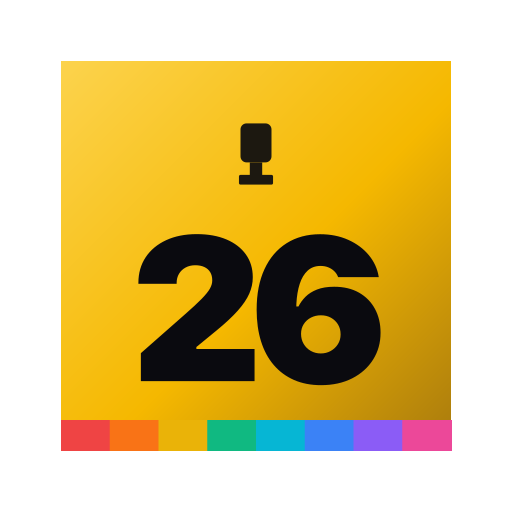
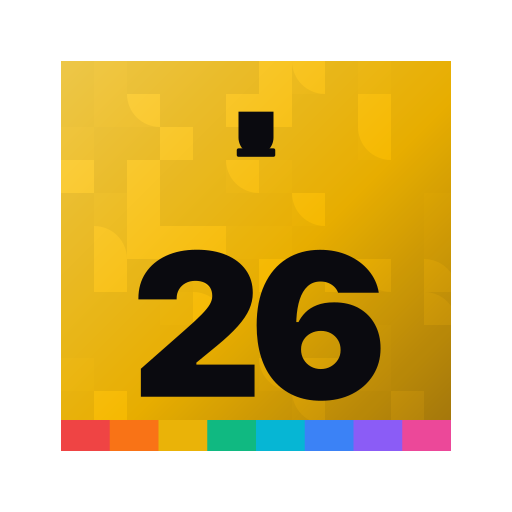
URL nova meualbum-copa2026.web.app + bandeiras + identidade refinada
- Firebase: site customizado meualbum-copa2026 criado e setado como
  destino no firebase.json (substitui album-copa-2026-mr.web.app
  que era o subdomínio default do project ID).
- Backend: ALLOWED_ORIGIN agora aceita lista CSV; setado pra aceitar
  ambos os domínios durante a transição. Cloud Run rev 00006-nwd.

Identidade visual:
- Lista oficial das 48 seleções verificada na fifa.com/pt (peguei
  via Claude-in-Chrome). Ajustes nos nomes em PT: "Holanda" (era
  Países Baixos), "Curaçau" (era Curaçao), "RD do Congo", "EUA".
- Cada Team agora carrega `flag` (emoji unicode regional indicator,
  com tags pra Inglaterra e Escócia).
- Header da Review mostra cabeçalho com bandeira + nome + grupo +
  página quando seleção é detectada.
- Filtro de seleção em Collection mostra "🇧🇷 Brasil · Grupo C".

Ícone PWA refinado:
- Padrão sutil de quadrados + quartos de círculo no fundo dourado,
  evocando o sistema gráfico oficial onde 48 dessas unidades formam
  o "26". Troféu silhueta mais detalhado (taça + base).

Changed region(s): [[0.25, 0.4375, 0.75, 0.7812], [0.4375, 0.2188, 0.5625, 0.375]]

diff --git a/frontend/src/data/album.ts b/frontend/src/data/album.ts
@@ -51,12 +51,14 @@ export interface Sticker {
 export interface Team {
   /** Código de 3 letras usado no álbum Panini 2026. */
   code: string
-  /** Nome em português. */
+  /** Nome em português (alinhado à fonte oficial fifa.com/pt). */
   name: string
   /** Grupo da Copa (A..L). */
   group: string
   /** Página onde a seleção começa no álbum impresso (cada seleção ocupa 2 páginas). */
   startPage: number
+  /** Emoji da bandeira (regional indicator / subdivision flag). */
+  flag: string
 }
 
 /**
@@ -78,66 +80,66 @@ export const MUSEUM_CODE = 'FM'
  */
 export const TEAMS: Team[] = [
   // Grupo A
-  { code: 'MEX', name: 'México', group: 'A', startPage: 8 },
-  { code: 'RSA', name: 'África do Sul', group: 'A', startPage: 10 },
-  { code: 'KOR', name: 'Coreia do Sul', group: 'A', startPage: 12 },
-  { code: 'CZE', name: 'Tchéquia', group: 'A', startPage: 14 },
+  { code: 'MEX', name: 'México',           group: 'A', startPage: 8,   flag: '🇲🇽' },
+  { code: 'RSA', name: 'África do Sul',    group: 'A', startPage: 10,  flag: '🇿🇦' },
+  { code: 'KOR', name: 'Coreia do Sul',    group: 'A', startPage: 12,  flag: '🇰🇷' },
+  { code: 'CZE', name: 'Tchéquia',         group: 'A', startPage: 14,  flag: '🇨🇿' },
   // Grupo B
-  { code: 'CAN', name: 'Canadá', group: 'B', startPage: 16 },
-  { code: 'BIH', name: 'Bósnia e Herzegovina', group: 'B', startPage: 18 },
-  { code: 'QAT', name: 'Catar', group: 'B', startPage: 20 },
-  { code: 'SUI', name: 'Suíça', group: 'B', startPage: 22 },
+  { code: 'CAN', name: 'Canadá',           group: 'B', startPage: 16,  flag: '🇨🇦' },
+  { code: 'BIH', name: 'Bósnia e Herzegovina', group: 'B', startPage: 18, flag: '🇧🇦' },
+  { code: 'QAT', name: 'Catar',            group: 'B', startPage: 20,  flag: '🇶🇦' },
+  { code: 'SUI', name: 'Suíça',            group: 'B', startPage: 22,  flag: '🇨🇭' },
   // Grupo C
-  { code: 'BRA', name: 'Brasil', group: 'C', startPage: 24 },
-  { code: 'MAR', name: 'Marrocos', group: 'C', startPage: 26 },
-  { code: 'HAI', name: 'Haiti', group: 'C', startPage: 28 },
-  { code: 'SCO', name: 'Escócia', group: 'C', startPage: 30 },
+  { code: 'BRA', name: 'Brasil',           group: 'C', startPage: 24,  flag: '🇧🇷' },
+  { code: 'MAR', name: 'Marrocos',         group: 'C', startPage: 26,  flag: '🇲🇦' },
+  { code: 'HAI', name: 'Haiti',            group: 'C', startPage: 28,  flag: '🇭🇹' },
+  { code: 'SCO', name: 'Escócia',          group: 'C', startPage: 30,  flag: '🏴' },
   // Grupo D
-  { code: 'USA', name: 'Estados Unidos', group: 'D', startPage: 32 },
-  { code: 'PAR', name: 'Paraguai', group: 'D', startPage: 34 },
-  { code: 'AUS', name: 'Austrália', group: 'D', startPage: 36 },
-  { code: 'TUR', name: 'Turquia', group: 'D', startPage: 38 },
+  { code: 'USA', name: 'EUA',              group: 'D', startPage: 32,  flag: '🇺🇸' },
+  { code: 'PAR', name: 'Paraguai',         group: 'D', startPage: 34,  flag: '🇵🇾' },
+  { code: 'AUS', name: 'Austrália',        group: 'D', startPage: 36,  flag: '🇦🇺' },
+  { code: 'TUR', name: 'Turquia',          group: 'D', startPage: 38,  flag: '🇹🇷' },
   // Grupo E
-  { code: 'GER', name: 'Alemanha', group: 'E', startPage: 40 },
-  { code: 'CUW', name: 'Curaçao', group: 'E', startPage: 42 },
-  { code: 'CIV', name: 'Costa do Marfim', group: 'E', startPage: 44 },
-  { code: 'ECU', name: 'Equador', group: 'E', startPage: 46 },
+  { code: 'GER', name: 'Alemanha',         group: 'E', startPage: 40,  flag: '🇩🇪' },
+  { code: 'CUW', name: 'Curaçau',          group: 'E', startPage: 42,  flag: '🇨🇼' },
+  { code: 'CIV', name: 'Costa do Marfim',  group: 'E', startPage: 44,  flag: '🇨🇮' },
+  { code: 'ECU', name: 'Equador',          group: 'E', startPage: 46,  flag: '🇪🇨' },
   // Grupo F
-  { code: 'NED', name: 'Países Baixos', group: 'F', startPage: 48 },
-  { code: 'JPN', name: 'Japão', group: 'F', startPage: 50 },
-  { code: 'SWE', name: 'Suécia', group: 'F', startPage: 52 },
-  { code: 'TUN', name: 'Tunísia', group: 'F', startPage: 54 },
+  { code: 'NED', name: 'Holanda',          group: 'F', startPage: 48,  flag: '🇳🇱' },
+  { code: 'JPN', name: 'Japão',            group: 'F', startPage: 50,  flag: '🇯🇵' },
+  { code: 'SWE', name: 'Suécia',           group: 'F', startPage: 52,  flag: '🇸🇪' },
+  { code: 'TUN', name: 'Tunísia',          group: 'F', startPage: 54,  flag: '🇹🇳' },
   // [páginas 56-57 são seção especial entre F e G]
   // Grupo G
-  { code: 'BEL', name: 'Bélgica', group: 'G', startPage: 58 },
-  { code: 'EGY', name: 'Egito', group: 'G', startPage: 60 },
-  { code: 'IRN', name: 'Irã', group: 'G', startPage: 62 },
-  { code: 'NZL', name: 'Nova Zelândia', group: 'G', startPage: 64 },
+  { code: 'BEL', name: 'Bélgica',          group: 'G', startPage: 58,  flag: '🇧🇪' },
+  { code: 'EGY', name: 'Egito',            group: 'G', startPage: 60,  flag: '🇪🇬' },
+  { code: 'IRN', name: 'Irã',              group: 'G', startPage: 62,  flag: '🇮🇷' },
+  { code: 'NZL', name: 'Nova Zelândia',    group: 'G', startPage: 64,  flag: '🇳🇿' },
   // Grupo H
-  { code: 'ESP', name: 'Espanha', group: 'H', startPage: 66 },
-  { code: 'CPV', name: 'Cabo Verde', group: 'H', startPage: 68 },
-  { code: 'KSA', name: 'Arábia Saudita', group: 'H', startPage: 70 },
-  { code: 'URU', name: 'Uruguai', group: 'H', startPage: 72 },
+  { code: 'ESP', name: 'Espanha',          group: 'H', startPage: 66,  flag: '🇪🇸' },
+  { code: 'CPV', name: 'Cabo Verde',       group: 'H', startPage: 68,  flag: '🇨🇻' },
+  { code: 'KSA', name: 'Arábia Saudita',   group: 'H', startPage: 70,  flag: '🇸🇦' },
+  { code: 'URU', name: 'Uruguai',          group: 'H', startPage: 72,  flag: '🇺🇾' },
   // Grupo I
-  { code: 'FRA', name: 'França', group: 'I', startPage: 74 },
-  { code: 'SEN', name: 'Senegal', group: 'I', startPage: 76 },
-  { code: 'IRQ', name: 'Iraque', group: 'I', startPage: 78 },
-  { code: 'NOR', name: 'Noruega', group: 'I', startPage: 80 },
+  { code: 'FRA', name: 'França',           group: 'I', startPage: 74,  flag: '🇫🇷' },
+  { code: 'SEN', name: 'Senegal',          group: 'I', startPage: 76,  flag: '🇸🇳' },
+  { code: 'IRQ', name: 'Iraque',           group: 'I', startPage: 78,  flag: '🇮🇶' },
+  { code: 'NOR', name: 'Noruega',          group: 'I', startPage: 80,  flag: '🇳🇴' },
   // Grupo J
-  { code: 'ARG', name: 'Argentina', group: 'J', startPage: 82 },
-  { code: 'ALG', name: 'Argélia', group: 'J', startPage: 84 },
-  { code: 'AUT', name: 'Áustria', group: 'J', startPage: 86 },
-  { code: 'JOR', name: 'Jordânia', group: 'J', startPage: 88 },
+  { code: 'ARG', name: 'Argentina',        group: 'J', startPage: 82,  flag: '🇦🇷' },
+  { code: 'ALG', name: 'Argélia',          group: 'J', startPage: 84,  flag: '🇩🇿' },
+  { code: 'AUT', name: 'Áustria',          group: 'J', startPage: 86,  flag: '🇦🇹' },
+  { code: 'JOR', name: 'Jordânia',         group: 'J', startPage: 88,  flag: '🇯🇴' },
   // Grupo K
-  { code: 'POR', name: 'Portugal', group: 'K', startPage: 90 },
-  { code: 'COD', name: 'Congo (RD)', group: 'K', startPage: 92 },
-  { code: 'UZB', name: 'Uzbequistão', group: 'K', startPage: 94 },
-  { code: 'COL', name: 'Colômbia', group: 'K', startPage: 96 },
+  { code: 'POR', name: 'Portugal',         group: 'K', startPage: 90,  flag: '🇵🇹' },
+  { code: 'COD', name: 'RD do Congo',      group: 'K', startPage: 92,  flag: '🇨🇩' },
+  { code: 'UZB', name: 'Uzbequistão',      group: 'K', startPage: 94,  flag: '🇺🇿' },
+  { code: 'COL', name: 'Colômbia',         group: 'K', startPage: 96,  flag: '🇨🇴' },
   // Grupo L
-  { code: 'ENG', name: 'Inglaterra', group: 'L', startPage: 98 },
-  { code: 'CRO', name: 'Croácia', group: 'L', startPage: 100 },
-  { code: 'GHA', name: 'Gana', group: 'L', startPage: 102 },
-  { code: 'PAN', name: 'Panamá', group: 'L', startPage: 104 },
+  { code: 'ENG', name: 'Inglaterra',       group: 'L', startPage: 98,  flag: '🏴' },
+  { code: 'CRO', name: 'Croácia',          group: 'L', startPage: 100, flag: '🇭🇷' },
+  { code: 'GHA', name: 'Gana',             group: 'L', startPage: 102, flag: '🇬🇭' },
+  { code: 'PAN', name: 'Panamá',           group: 'L', startPage: 104, flag: '🇵🇦' },
 ]
 
 if (TEAMS.length !== TEAM_COUNT) {

diff --git a/frontend/src/pages/Review.tsx b/frontend/src/pages/Review.tsx
@@ -282,13 +282,30 @@ function PageResultPanel({
     return <EmptyResult result={result} geminiError={geminiError} />
   }
 
-  const teamName = result.team ? TEAMS_BY_CODE.get(result.team)?.name : null
+  const team = result.team ? TEAMS_BY_CODE.get(result.team) : null
   const allIds = expandExpectedIds(result.ids, result.team)
   const detectedSet = new Set(result.ids.map((d) => d.id))
   const expectedNotDetected = allIds.filter((id) => !detectedSet.has(id))
 
   return (
     <div className="space-y-3">
+      {team && (
+        <div className="flex items-center gap-3 rounded-2xl border border-neutral-800 bg-gradient-to-br from-neutral-900 to-neutral-950 px-4 py-3">
+          <span className="text-3xl leading-none">{team.flag}</span>
+          <div className="flex-1">
+            <div className="text-base font-bold text-white">{team.name}</div>
+            <div className="text-[11px] uppercase tracking-wide text-neutral-500">
+              Grupo {team.group} · {team.code}
+            </div>
+          </div>
+          {result.page && (
+            <span className="rounded-md bg-neutral-800/60 px-2 py-0.5 text-xs font-mono text-neutral-300">
+              p. {result.page}
+            </span>
+          )}
+        </div>
+      )}
+
       <div className="flex flex-wrap items-baseline gap-x-3 gap-y-1 text-xs text-neutral-500">
         <span>
           {result.ids.length} detectada{result.ids.length === 1 ? '' : 's'}
@@ -303,8 +320,6 @@ function PageResultPanel({
             +{expectedNotDetected.length} esperada{expectedNotDetected.length === 1 ? '' : 's'}
           </span>
         )}
-        {teamName && <span className="text-neutral-300">{teamName}</span>}
-        {result.page && <span>p. {result.page}</span>}
         <span>·</span>
         <span>{result.source === 'gemini' ? 'Gemini' : 'Tesseract'}</span>
         <span>{Math.round(result.durationMs)}ms</span>

diff --git a/backend/server.js b/backend/server.js
@@ -7,7 +7,12 @@ if (!apiKey) {
   process.exit(1)
 }
 
-const allowedOrigin = process.env.ALLOWED_ORIGIN || '*'
+// ALLOWED_ORIGIN aceita múltiplas origens separadas por vírgula. Durante a
+// transição da URL do app, mantemos as duas funcionando.
+const allowedOrigins = (process.env.ALLOWED_ORIGIN || '*')
+  .split(',')
+  .map((s) => s.trim())
+  .filter(Boolean)
 const sharedToken = process.env.CLIENT_TOKEN || ''
 
 const genAI = new GoogleGenerativeAI(apiKey)
@@ -107,7 +112,12 @@ const app = express()
 app.use(express.json({ limit: '12mb' }))
 
 app.use((req, res, next) => {
-  res.setHeader('Access-Control-Allow-Origin', allowedOrigin)
+  const origin = req.headers.origin
+  if (allowedOrigins.includes('*')) {
+    res.setHeader('Access-Control-Allow-Origin', '*')
+  } else if (origin && allowedOrigins.includes(origin)) {
+    res.setHeader('Access-Control-Allow-Origin', origin)
+  }
   res.setHeader('Vary', 'Origin')
   res.setHeader('Access-Control-Allow-Methods', 'POST, GET, OPTIONS')
   res.setHeader('Access-Control-Allow-Headers', 'Content-Type, X-Client-Token')

diff --git a/frontend/src/pages/Collection.tsx b/frontend/src/pages/Collection.tsx
@@ -91,7 +91,7 @@ function TeamFilter({
       <option value="all">Todas as seções</option>
       {TEAMS.map((t) => (
         <option key={t.code} value={t.code}>
-          {t.name} ({t.code})
+          {t.flag} {t.name} · Grupo {t.group}
         </option>
       ))}
     </select>
